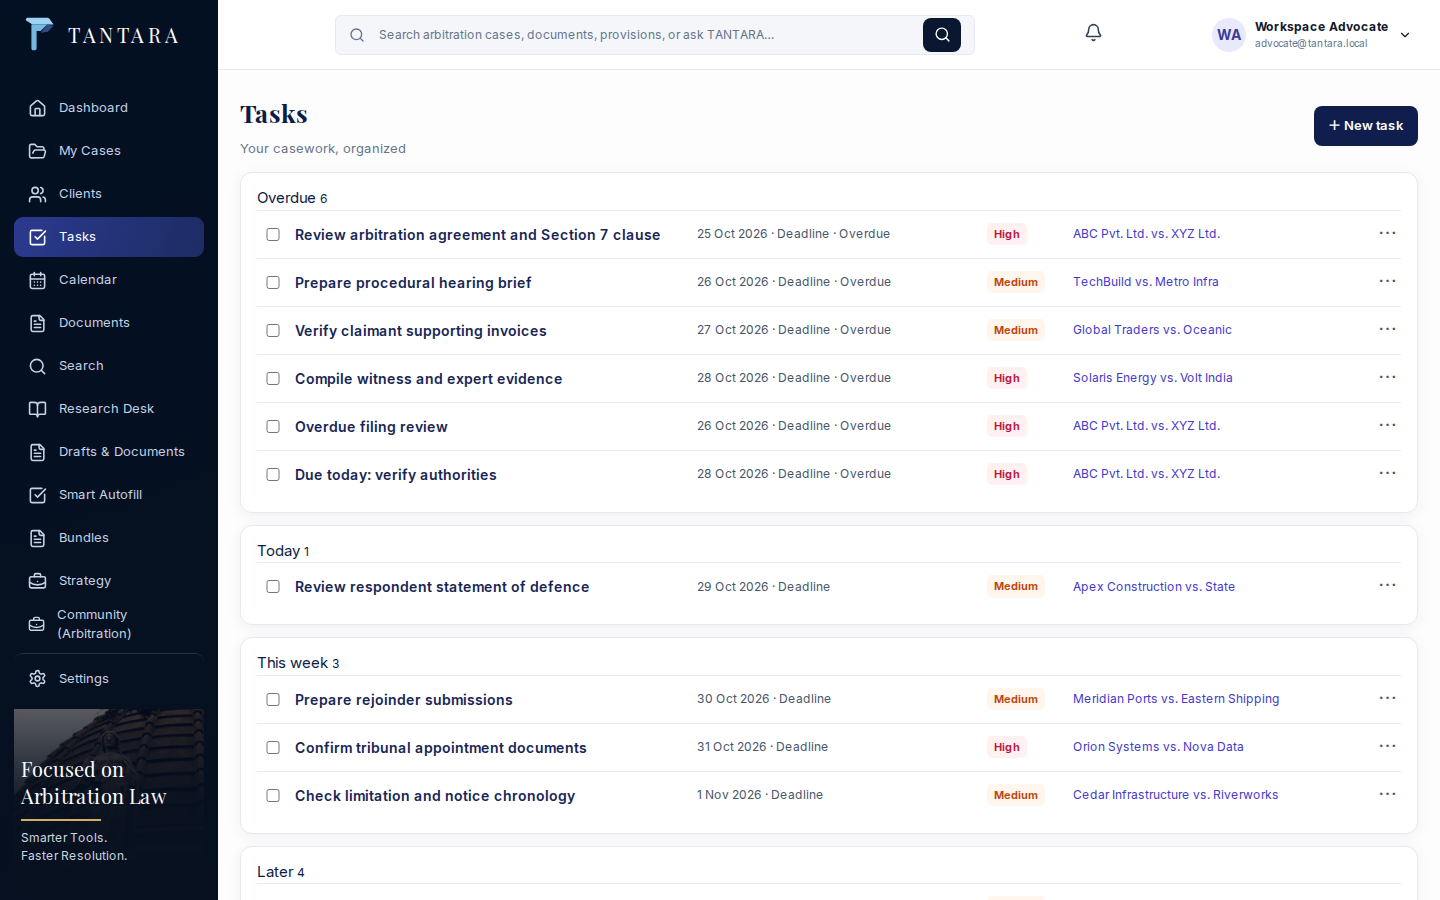
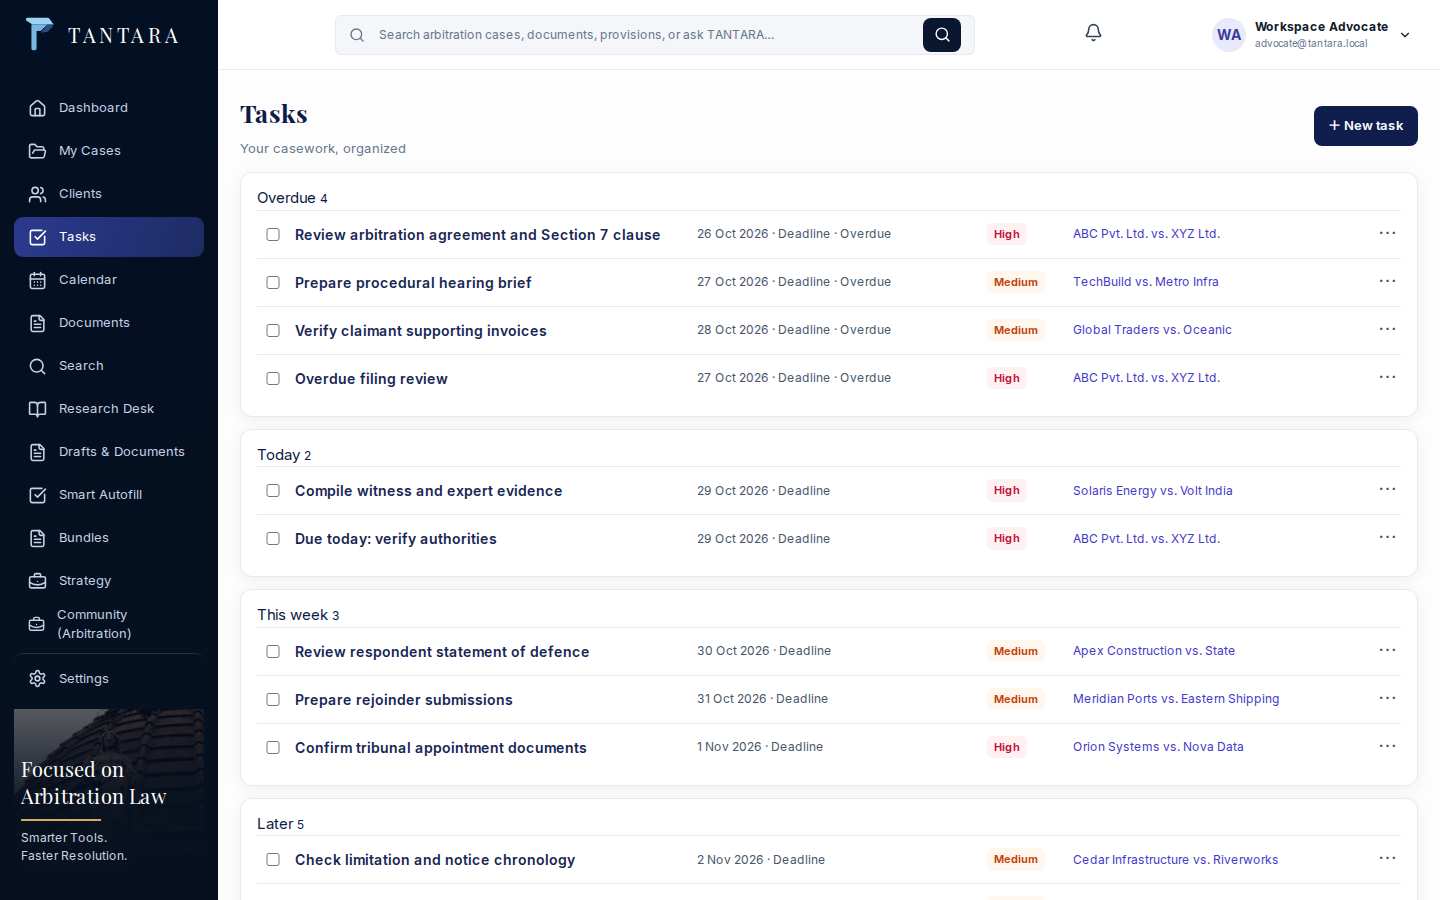
docs: recapture seeded gallery after hearing sort fix

diff --git a/README.md b/README.md
@@ -109,6 +109,7 @@ The backend reads these settings from its environment (and the repository's loca
 | Data directory | `TANTARA_DATA_DIR`, `DATA_DIR` | `<repo>/backend/data` | SQLite database, uploads, generated bundles, vector index, and local secret. |
 | Workspace timezone | `TANTARA_WORKSPACE_TIME_ZONE` | `Asia/Kolkata` | Wall-clock interpretation and display for workspace dates. |
 | Local model base URL | `TANTARA_LOCAL_LLM_BASE_URL`, `LOCAL_LLM_BASE_URL` | `http://192.168.0.101:8080/v1` | OpenAI-compatible chat endpoint. Configure an endpoint reachable from the backend host. |
+| Local model request timeout | `TANTARA_LOCAL_LLM_TIMEOUT` | `20` seconds | Upper bound for each local chat completion request; constrained below the frontend proxy budget so slow calls return the documented unavailable response. |
 | Local model name | `LOCAL_LLM_MODEL` | `MiniCPM5-2B` | Model identifier sent to the configured provider. |
 | Embedding model | `FASTEMBED_MODEL` | `sentence-transformers/all-MiniLM-L6-v2` | Local 384-dimensional text embeddings. |
 | CORS origins | `CORS_ORIGINS`, `TANTARA_CORS_ORIGINS` | `http://localhost:3000`–`:3020` and `http://127.0.0.1:3000`–`:3020` | Development browser origins accepted by the API. The standard frontend on 3010 is included. |
@@ -224,17 +225,17 @@ These desktop and mobile captures come from the authenticated, demo-seeded works
 
 | Module | Desktop (1440×900) | Mobile (390×844) | Rendered | Desktop captured (UTC) | Mobile captured (UTC) |
 |---|---|---|---|---|
-| Dashboard | ![Dashboard desktop](docs/screenshots/dashboard-1440x900.png) | ![Dashboard mobile](docs/screenshots/dashboard-390x844.png) | 1440×900 / 390×844 | 2026-10-28 22:04 UTC | 2026-10-28 22:04 UTC |
-| Cases | ![Cases desktop](docs/screenshots/cases-1440x900.png) | ![Cases mobile](docs/screenshots/cases-390x844.png) | 1440×900 / 390×844 | 2026-10-28 22:04 UTC | 2026-10-28 22:04 UTC |
-| Clients | ![Clients desktop](docs/screenshots/clients-1440x900.png) | ![Clients mobile](docs/screenshots/clients-390x844.png) | 1440×900 / 390×844 | 2026-10-28 22:04 UTC | 2026-10-28 22:04 UTC |
-| Tasks | ![Tasks desktop](docs/screenshots/tasks-1440x900.png) | ![Tasks mobile](docs/screenshots/tasks-390x844.png) | 1440×900 / 390×844 | 2026-10-28 22:04 UTC | 2026-10-28 22:04 UTC |
-| Calendar | ![Calendar desktop](docs/screenshots/calendar-1440x900.png) | ![Calendar mobile](docs/screenshots/calendar-390x844.png) | 1440×900 / 390×844 | 2026-10-28 22:04 UTC | 2026-10-28 22:04 UTC |
-| Documents | ![Documents desktop](docs/screenshots/documents-1440x900.png) | ![Documents mobile](docs/screenshots/documents-390x844.png) | 1440×900 / 390×844 | 2026-10-28 22:04 UTC | 2026-10-28 22:04 UTC |
-| Search | ![Search desktop](docs/screenshots/search-1440x900.png) | ![Search mobile](docs/screenshots/search-390x844.png) | 1440×900 / 390×844 | 2026-10-28 22:04 UTC | 2026-10-28 22:04 UTC |
-| Research | ![Research desktop](docs/screenshots/research-1440x900.png) | ![Research mobile](docs/screenshots/research-390x844.png) | 1440×900 / 390×844 | 2026-10-28 22:04 UTC | 2026-10-28 22:04 UTC |
-| Drafts | ![Drafts desktop](docs/screenshots/drafts-1440x900.png) | ![Drafts mobile](docs/screenshots/drafts-390x844.png) | 1440×900 / 390×844 | 2026-10-28 22:04 UTC | 2026-10-28 22:04 UTC |
-| Autofill | ![Autofill desktop](docs/screenshots/autofill-1440x900.png) | ![Autofill mobile](docs/screenshots/autofill-390x844.png) | 1440×900 / 390×844 | 2026-10-28 22:04 UTC | 2026-10-28 22:04 UTC |
-| Bundles (page heading: Filing Bundles) | ![Bundles desktop](docs/screenshots/bundles-1440x900.png) | ![Bundles mobile](docs/screenshots/bundles-390x844.png) | 1440×900 / 390×844 | 2026-10-28 22:04 UTC | 2026-10-28 22:04 UTC |
-| Strategy (page heading: AI Strategy Advisor) | ![Strategy desktop](docs/screenshots/strategy-1440x900.png) | ![Strategy mobile](docs/screenshots/strategy-390x844.png) | 1440×900 / 390×844 | 2026-10-28 22:04 UTC | 2026-10-28 22:04 UTC |
-| Community | ![Community desktop](docs/screenshots/community-1440x900.png) | ![Community mobile](docs/screenshots/community-390x844.png) | 1440×900 / 390×844 | 2026-10-28 22:04 UTC | 2026-10-28 22:04 UTC |
-| Settings | ![Settings desktop](docs/screenshots/settings-profile-1440x900.png) | ![Settings mobile](docs/screenshots/settings-profile-390x844.png) | 1440×900 / 390×844 | 2026-10-28 22:04 UTC | 2026-10-28 22:04 UTC |
+| Dashboard | ![Dashboard desktop](docs/screenshots/dashboard-1440x900.png) | ![Dashboard mobile](docs/screenshots/dashboard-390x844.png) | 1440×900 / 390×844 | 2026-10-29 00:31 UTC | 2026-10-29 00:31 UTC |
+| Cases | ![Cases desktop](docs/screenshots/cases-1440x900.png) | ![Cases mobile](docs/screenshots/cases-390x844.png) | 1440×900 / 390×844 | 2026-10-29 00:31 UTC | 2026-10-29 00:31 UTC |
+| Clients | ![Clients desktop](docs/screenshots/clients-1440x900.png) | ![Clients mobile](docs/screenshots/clients-390x844.png) | 1440×900 / 390×844 | 2026-10-29 00:31 UTC | 2026-10-29 00:31 UTC |
+| Tasks | ![Tasks desktop](docs/screenshots/tasks-1440x900.png) | ![Tasks mobile](docs/screenshots/tasks-390x844.png) | 1440×900 / 390×844 | 2026-10-29 00:31 UTC | 2026-10-29 00:31 UTC |
+| Calendar | ![Calendar desktop](docs/screenshots/calendar-1440x900.png) | ![Calendar mobile](docs/screenshots/calendar-390x844.png) | 1440×900 / 390×844 | 2026-10-29 00:31 UTC | 2026-10-29 00:31 UTC |
+| Documents | ![Documents desktop](docs/screenshots/documents-1440x900.png) | ![Documents mobile](docs/screenshots/documents-390x844.png) | 1440×900 / 390×844 | 2026-10-29 00:31 UTC | 2026-10-29 00:31 UTC |
+| Search | ![Search desktop](docs/screenshots/search-1440x900.png) | ![Search mobile](docs/screenshots/search-390x844.png) | 1440×900 / 390×844 | 2026-10-29 00:31 UTC | 2026-10-29 00:31 UTC |
+| Research | ![Research desktop](docs/screenshots/research-1440x900.png) | ![Research mobile](docs/screenshots/research-390x844.png) | 1440×900 / 390×844 | 2026-10-29 00:31 UTC | 2026-10-29 00:31 UTC |
+| Drafts | ![Drafts desktop](docs/screenshots/drafts-1440x900.png) | ![Drafts mobile](docs/screenshots/drafts-390x844.png) | 1440×900 / 390×844 | 2026-10-29 00:31 UTC | 2026-10-29 00:31 UTC |
+| Autofill | ![Autofill desktop](docs/screenshots/autofill-1440x900.png) | ![Autofill mobile](docs/screenshots/autofill-390x844.png) | 1440×900 / 390×844 | 2026-10-29 00:31 UTC | 2026-10-29 00:31 UTC |
+| Bundles (page heading: Filing Bundles) | ![Bundles desktop](docs/screenshots/bundles-1440x900.png) | ![Bundles mobile](docs/screenshots/bundles-390x844.png) | 1440×900 / 390×844 | 2026-10-29 00:31 UTC | 2026-10-29 00:31 UTC |
+| Strategy (page heading: AI Strategy Advisor) | ![Strategy desktop](docs/screenshots/strategy-1440x900.png) | ![Strategy mobile](docs/screenshots/strategy-390x844.png) | 1440×900 / 390×844 | 2026-10-29 00:31 UTC | 2026-10-29 00:31 UTC |
+| Community | ![Community desktop](docs/screenshots/community-1440x900.png) | ![Community mobile](docs/screenshots/community-390x844.png) | 1440×900 / 390×844 | 2026-10-29 00:31 UTC | 2026-10-29 00:31 UTC |
+| Settings | ![Settings desktop](docs/screenshots/settings-profile-1440x900.png) | ![Settings mobile](docs/screenshots/settings-profile-390x844.png) | 1440×900 / 390×844 | 2026-10-29 00:31 UTC | 2026-10-29 00:31 UTC |
